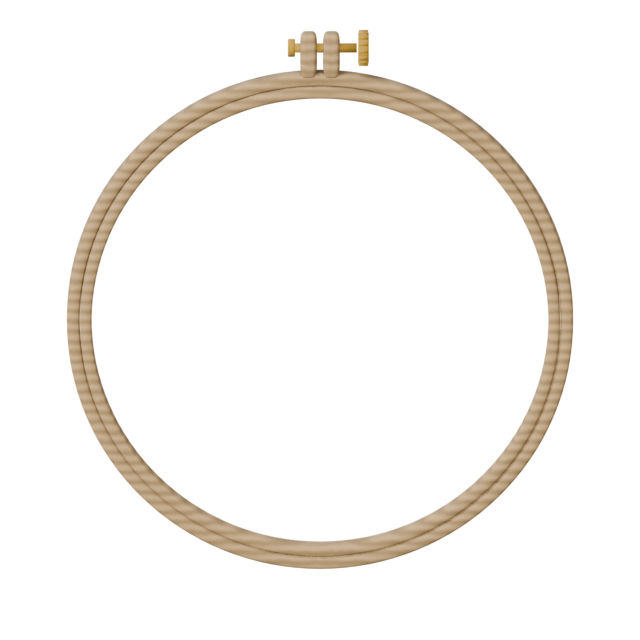
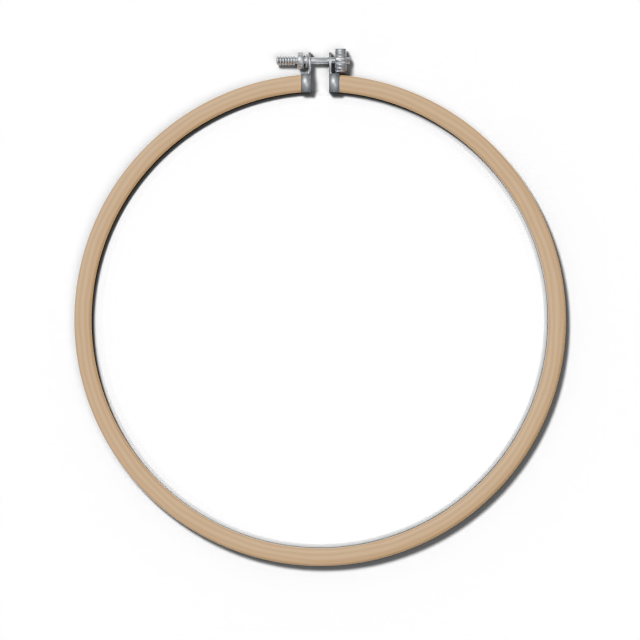
右下の刺繍枠を本物に合わせる: 見える木の輪は外枠 1 本と金具だけ、影は布の上の段差
代表「地を木枠で挟むので二重の木枠の内側の方は布に隠れて見えないようです。あと影のつき方も前後って感じでなく段差があるような感じのようです」から。

- props/build_hud.py の --hoop-png: 内枠をやめ、曲げ木の外枠 1 本（てっぺんで切れ、両端の金具の耳を横のねじで締める。左にねじ山と六角ナット、右に丸いつまみ）を真上から撮る。木はブナのような明るい色に、淡い木目と色むら
- 影は Cycles の shadow catcher で、枠が布に落とす段差の影を絵に焼き込む（外の縁に細く、内の縁は布が枠より少し低い）
- hud.gd の _draw_hoop: 絵をまるごとずらした落ち影をやめた。外枠の内の縁を窓の布の縁に少しかぶせる
- self_cam.gd の窓の布: 外枠の内の縁で、布が枠に引き込まれて少し沈む陰（左上は明るく、右下は暗く）。しみの上にかける
- 前後の絵: design/hoop-look/

Changed region(s): [[0.0938, 0.0312, 0.9062, 0.9062]]

diff --git a/props/build_hud.py b/props/build_hud.py
@@ -9,8 +9,10 @@
 大きさが場面で変わる板（名札・札・ワッペン・持ち物の列）は Godot で角の丸い板を組み、ここでは形の決まった物だけを作る:
   hud_bobbin   木の糸巻き（ボビン）。正面（-Y、Godot では +Z）に三つ穴の端の板、奥に巻いた糸。半径 0.5
   hud_hoop     刺繍枠。内と外の 2 本の木の輪と、上の真鍮色のねじ。内の半径 1.0
-  hoop.png     本物らしい刺繍枠を正面から撮った絵（--hoop-png。2026-10-29 代表「刺繍小窓の刺繍枠をリアルな木枠にしてほしい。
-               いまなんかぼやぼやしてモチーフが伝わらない」）。曲げ木の平たい帯の内と外の輪、上の 2 枚の木の耳、真鍮のねじとつまみ。
+  hoop.png     本物らしい刺繍枠を真上から撮った絵（--hoop-png。2026-10-29 代表「刺繍小窓の刺繍枠をリアルな木枠にしてほしい。
+               いまなんかぼやぼやしてモチーフが伝わらない」）。見えるのは曲げ木の外枠 1 本と、てっぺんの切れ目を締める金具だけ
+               （内枠は張った布の下。2026-11-02 代表「二重の木枠の内側の方は布に隠れて見えない」）。影は枠が布に落とす段差の影を
+               Cycles の shadow catcher で焼き込む（代表「前後って感じでなく段差があるような感じ」）。
                3D の場面（半分の解像度）に置くとぼやけるので、絵にして画面の解像度のまま描く（hud.gd）
   hud_eyelet   札の穴のはとめ（真鍮色）。外の半径 0.1
 軸はどれも Blender の Y（Godot の Z、画面の奥行き）。
@@ -73,49 +75,152 @@ def eyelet(name):
     P.finish()
 
 
+# 刺繍枠の絵の寸法（Blender の単位。窓の布の縁 = 外枠の内の半径 = 1.0）。hud.gd の _draw_hoop と self_cam.gd の MASK_SHADER の縁の沈みがこれに合わせる
+HOOP_T = 0.075        # 外枠の帯の幅（正面から見た太さ）
+HOOP_D = 0.07         # 外枠の高さ（布からの段差）
+HOOP_GAP = 0.04       # てっぺんの切れ目の半分の幅
+
+
+def hoop_band(P, role, r0, t, d, gap, segs=160):
+    """曲げ木の帯の輪（正面は -Y、輪の軸は Y）。てっぺん（+Z）に切れ目。断面は前の角を丸めた長方形で、布の面 y = 0 に座る。
+    UV の u は輪に沿う長さ（曲げ木の木目が輪に沿って流れる）"""
+    m = P.m(role)
+    prof = []
+    def corner(cx, cy, rad, a0, a1, n=5):
+        for k in range(n + 1):
+            a = a0 + (a1 - a0) * k / n
+            prof.append((cx + rad * math.cos(a), cy + rad * math.sin(a)))
+    cf, cb = 0.024, 0.006   # 前（見える面）の角は大きく丸め、後ろ（布に当たる面）はほぼ角
+    corner(r0 + cb, -cb, cb, math.pi, math.pi / 2, 2)                      # 内・後ろ
+    corner(r0 + t - cb, -cb, cb, math.pi / 2, 0.0, 2)                      # 外・後ろ
+    corner(r0 + t - cf, -d + cf, cf, 0.0, -math.pi / 2)                    # 外・前
+    corner(r0 + cf, -d + cf, cf, -math.pi / 2, -math.pi)                   # 内・前
+    # 断面のまわりの長さで v を決める（木目の筋が帯の面を何本か横切る）
+    vs = [0.0]
+    for i in range(1, len(prof) + 1):
+        a, b = prof[i - 1], prof[i % len(prof)]
+        vs.append(vs[-1] + math.hypot(b[0] - a[0], b[1] - a[1]))
+    a0, a1 = gap / r0, 2 * math.pi - gap / r0
+    rings = []
+    for i in range(segs + 1):
+        th = a0 + (a1 - a0) * i / segs
+        rings.append([m.bm.verts.new((r * math.sin(th), y, r * math.cos(th))) for (r, y) in prof])
+    n = len(prof)
+    for i in range(segs):
+        u0 = (a0 + (a1 - a0) * i / segs) * (r0 + t / 2)
+        u1 = (a0 + (a1 - a0) * (i + 1) / segs) * (r0 + t / 2)
+        for j in range(n):
+            j2 = (j + 1) % n
+            f = m.bm.faces.new((rings[i][j], rings[i][j2], rings[i + 1][j2], rings[i + 1][j]))
+            for lp, uv in zip(f.loops, ((u0, vs[j] * 4), (u0, vs[j + 1] * 4), (u1, vs[j + 1] * 4), (u1, vs[j] * 4))):
+                lp[m.uv].uv = uv
+    for ring in (rings[0], rings[-1]):   # 切れ目の木口
+        f = m.bm.faces.new(ring)
+        for lp, (r, y) in zip(f.loops, prof):
+            lp[m.uv].uv = (r * 3, y * 3)
+    m.uv_set = True
+
+
 def hoop_real(name):
-    """本物らしい刺繍枠（正面は -Y）: 曲げ木の平たい帯（奥行きのある薄い板を輪にしたもの）を 2 本、外の輪の上に木の耳 2 枚と、
-    それを締める真鍮のねじ（横の軸・丸いつまみ・反対の六角の頭）。内の輪の内側の半径 1.0"""
+    """本物の刺繍枠を真上から（正面は -Y）: 見えるのは外枠の曲げ木の帯 1 本だけ。内枠は張った布の下に隠れる
+    （2026-11-02 代表「地を木枠で挟むので二重の木枠の内側の方は布に隠れて見えないようです」）。
+    外枠はてっぺんで切れ、両端に巻いた金具の耳を、横のねじで締める（左にねじの先と六角ナット、右に丸いつまみ）"""
     P = K.Parts(name, kind="hud")
-    D = 0.10            # 帯の奥行き
-    for (r0, t, y) in ((1.0, 0.05, 0.0), (1.052, 0.055, -0.014)):   # 内の輪・外の輪（外は少し手前）。HUD で読めるよう少し太め
-        c = 0.008
-        prof = [(r0, -D / 2 + y + c), (r0 + c, -D / 2 + y), (r0 + t - c, -D / 2 + y), (r0 + t, -D / 2 + y + c),
-                (r0 + t, D / 2 + y - c), (r0 + t - c, D / 2 + y), (r0 + c, D / 2 + y), (r0, D / 2 + y - c)]
-        K.lathe(P, "wood_light", prof + prof[:1], (0, 0, 0), segs=128, closed=False, rot=(math.pi / 2, "X"))
-    # 上の耳: 外の輪の切れ目の両側に立つ 2 枚の木の板（輪から上へ）
-    top = 1.10
+    R, T, D, G = 1.0, HOOP_T, HOOP_D, HOOP_GAP
+    hoop_band(P, "wood_bent", R, T, D, G)
+    y = -D / 2
+    # 帯の両端に巻いた金具（帯より少し大きい箱）と、上へ立つ耳
     for sx in (-1, 1):
-        K.pbox(P, "wood_light", (sx * 0.05, -0.014, top + 0.09), (0.036, D / 2, 0.10), n=5.0)
-    # 真鍮のねじ: 耳を横に貫く軸、右に丸いつまみ（縁に刻み）、左に六角の頭
-    zc = top + 0.12
-    K.dowel(P, "felt_brass", (-0.14, -0.014, zc), (0.16, -0.014, zc), 0.02, sides=16)
-    K.disc(P, "felt_brass", (0.19, -0.014, zc), 0.07, 0.045, axis="X", segs=24)
-    for k in range(14):
-        a = 2 * math.pi * k / 14
-        K.box(P, "felt_brass", (0.19, -0.014 + 0.07 * math.cos(a), zc + 0.07 * math.sin(a)), (0.04, 0.014, 0.014))
-    K.disc(P, "felt_brass", (-0.125, -0.014, zc), 0.04, 0.03, axis="X", segs=6)
+        K.box(P, "steel", (sx * (G + 0.022), y, R + T / 2), (0.044, D + 0.008, T + 0.008))
+        K.box(P, "steel", (sx * (G + 0.005), y, R + T + 0.045), (0.01, D * 0.7, 0.1))
+    # ねじ: 耳を横に貫く軸。左はねじ山の見える先と六角ナット、右は刻みのある丸いつまみ
+    zc = R + T + 0.06
+    K.dowel(P, "steel", (-0.19, y, zc), (0.13, y, zc), 0.014, sides=16)
+    for k in range(7):   # ねじ山
+        K.ring(P, "steel", (-0.185 + 0.012 * k, y, zc), 0.016, 0.004, axis="X", n=16)
+    K.disc(P, "steel", (-0.085, y, zc), 0.036, 0.026, axis="X", segs=6)
+    K.disc(P, "steel", (-0.058, y, zc), 0.03, 0.008, axis="X", segs=24)   # 座金
+    K.disc(P, "steel", (0.09, y, zc), 0.046, 0.05, axis="X", segs=24)
+    for k in range(16):
+        a = 2 * math.pi * k / 16
+        K.box(P, "steel", (0.09, y + 0.046 * math.cos(a), zc + 0.046 * math.sin(a)), (0.044, 0.01, 0.01))
     P.finish()
+    # 曲げ木の木目は淡く（ブナは木目が細かく目立たない）、金具はニッケルめっきの明るい鈍い銀
+    base = C.LM.lin(C.HEX["wood_bent"])
+    wm = C.mat("wood_bent").node_tree
+    mix = next(nd for nd in wm.nodes if nd.type == "MIX")
+    mix.inputs[6].default_value = tuple(c * 0.8 for c in base[:3]) + (1,)
+    # 色むら: 輪に沿ってゆるく明るさが揺れる（写真の枠の、ところどころの濃い所）
+    uv = wm.nodes.new("ShaderNodeTexCoord")
+    nz = wm.nodes.new("ShaderNodeTexNoise")
+    nz.inputs["Scale"].default_value = 1.6
+    nz.inputs["Detail"].default_value = 3.0
+    wm.links.new(uv.outputs["UV"], nz.inputs["Vector"])
+    ramp = wm.nodes.new("ShaderNodeMapRange")
+    ramp.inputs["To Min"].default_value = 0.86
+    ramp.inputs["To Max"].default_value = 1.04
+    wm.links.new(nz.outputs["Fac"], ramp.inputs["Value"])
+    mul = wm.nodes.new("ShaderNodeMix")
+    mul.data_type, mul.blend_type = "RGBA", "MULTIPLY"
+    mul.inputs[0].default_value = 1.0
+    bsdf = wm.nodes.get("Principled BSDF")
+    wm.links.new(mix.outputs[2], mul.inputs[6])
+    wm.links.new(ramp.outputs[0], mul.inputs[7])
+    wm.links.new(mul.outputs[2], bsdf.inputs["Base Color"])
+    st = C.mat("steel").node_tree.nodes.get("Principled BSDF")
+    if st:
+        st.inputs["Base Color"].default_value = C.LM.lin("CDD0D4")
+        st.inputs["Roughness"].default_value = 0.38
+
+
+def cloth_catcher():
+    """影だけを受ける布（Cycles の shadow catcher）。窓の中の布は、内枠の上を張って帯の高さの半分ほどまで持ち上がり、
+    外枠の内の縁で枠の中へ引き込まれて沈む。外枠の外は、外枠が乗っている面（y = 0）"""
+    import bmesh
+    import bpy
+    D = HOOP_D
+    prof = [(0.0, -D * 0.45), (0.9, -D * 0.45), (0.95, -D * 0.42), (0.98, -D * 0.3), (0.995, -D * 0.12), (1.0, 0.0), (1.6, 0.0)]
+    bm = bmesh.new()
+    segs = 128
+    rings = [[bm.verts.new((r * math.sin(2 * math.pi * i / segs), y, r * math.cos(2 * math.pi * i / segs))) for i in range(segs)]
+             for (r, y) in prof]
+    for j in range(len(rings) - 1):
+        for i in range(segs):
+            i2 = (i + 1) % segs
+            bm.faces.new((rings[j][i], rings[j][i2], rings[j + 1][i2], rings[j + 1][i]))
+    me = bpy.data.meshes.new("cloth_catcher")
+    bm.to_mesh(me)
+    bm.free()
+    o = bpy.data.objects.new("cloth_catcher", me)
+    bpy.context.scene.collection.objects.link(o)
+    o.is_shadow_catcher = True
+    return o
 
 
 def render_hoop_png(path):
-    """刺繍枠だけを正面から、平行に撮る。背景は抜く。光は左上の手前から（HUD の光と同じ向き）"""
+    """刺繍枠を真上から、平行に撮る。背景は抜き、枠が布に落とす段差の影だけを残す（Cycles の shadow catcher）。
+    光は左上の手前から（HUD の光と同じ向き）。布から高く離した落ち影ではなく、外枠の外の縁に沿う細い影になる"""
     import bpy
     C.setup_render("640x640")
     sc = bpy.context.scene
+    sc.render.engine = "CYCLES"
+    sc.cycles.device = "CPU"
+    sc.cycles.samples = 96
+    sc.cycles.use_denoising = True
     sc.render.film_transparent = True
     sc.render.image_settings.color_mode = "RGBA"
     for o in list(bpy.data.objects):
         if o.type == "LIGHT":
             bpy.data.objects.remove(o)
     sun = bpy.data.objects.new("sun", bpy.data.lights.new("sun", "SUN"))
-    sun.data.energy = 3.2
-    sun.data.angle = math.radians(8)
-    sun.rotation_euler = (math.radians(55), math.radians(-25), math.radians(-20))
+    sun.data.energy = 3.4
+    sun.data.angle = math.radians(14)
+    sun.rotation_euler = Vector((0.35, 1.0, -0.45)).normalized().to_track_quat("-Z", "Y").to_euler()
     sc.collection.objects.link(sun)
     fill = bpy.data.objects.new("fill", bpy.data.lights.new("fill", "SUN"))
-    fill.data.energy = 0.8
-    fill.rotation_euler = (math.radians(-60), 0, math.radians(160))
+    fill.data.energy = 0.6
+    fill.data.angle = math.radians(40)
+    fill.rotation_euler = Vector((-0.3, 1.0, 0.3)).normalized().to_track_quat("-Z", "Y").to_euler()
     sc.collection.objects.link(fill)
     if sc.world is None:
         sc.world = bpy.data.worlds.new("w")
@@ -123,13 +228,13 @@ def render_hoop_png(path):
     bg = sc.world.node_tree.nodes.get("Background")
     if bg:
         bg.inputs[0].default_value = (0.9, 0.9, 0.92, 1)
-        bg.inputs[1].default_value = 0.6
+        bg.inputs[1].default_value = 0.5
+    cloth_catcher()
     cam = bpy.data.objects.new("cam", bpy.data.cameras.new("cam"))
     cam.data.type = "ORTHO"
     cam.data.ortho_scale = 2.8
-    tilt = math.radians(12)   # 少し上から見下ろす（帯の奥行きが見えて、木の輪らしくなる。窓の丸はほぼそのまま）
-    cam.location = (0, -6 * math.cos(tilt), 6 * math.sin(tilt))
-    cam.rotation_euler = (math.radians(90) - tilt, 0, 0)
+    cam.location = (0, -6, 0)
+    cam.rotation_euler = (math.radians(90), 0, 0)
     sc.collection.objects.link(cam)
     sc.camera = cam
     sc.render.filepath = os.path.abspath(path)
@@ -138,6 +243,7 @@ def render_hoop_png(path):
 
 
 if A.hoop_png:
+    C.HEX["wood_bent"] = "DDB27A"   # ブナのような明るい曲げ木（代表の写真の刺繍枠）
     hoop_real("hud_hoop_real")
     for r, parts in K.made:
         K.seat_threads([r] + K.descendants(r))
